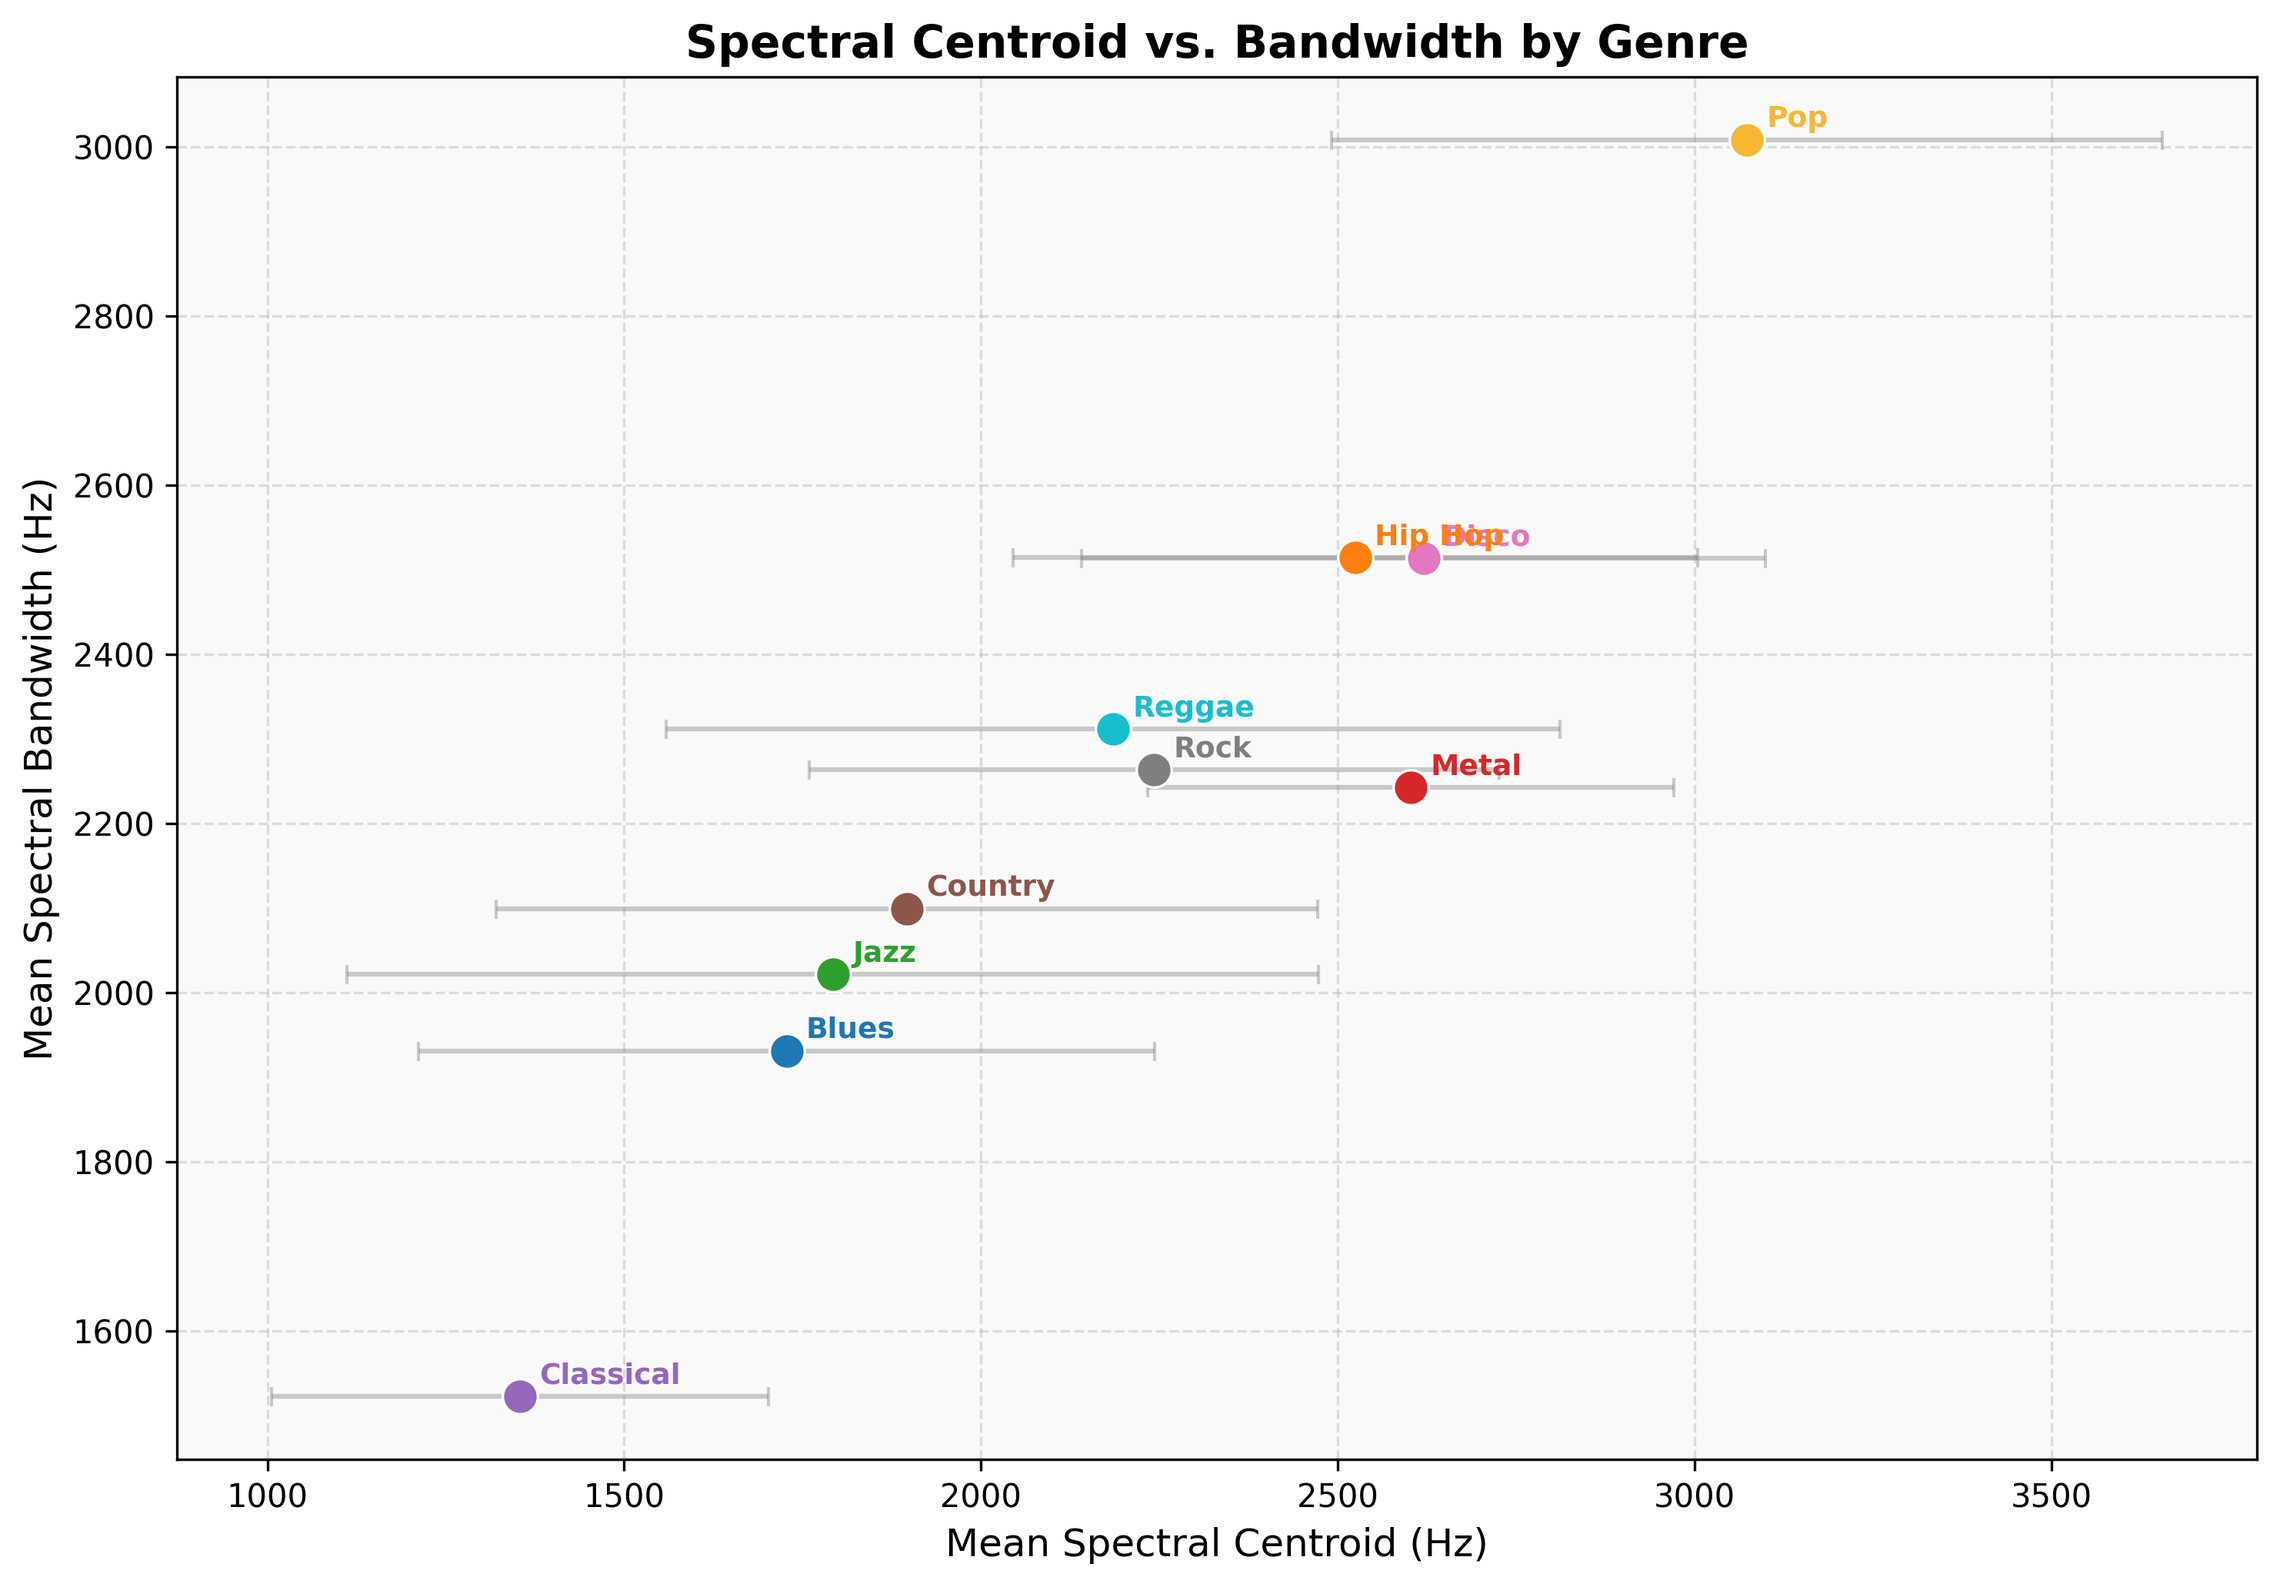
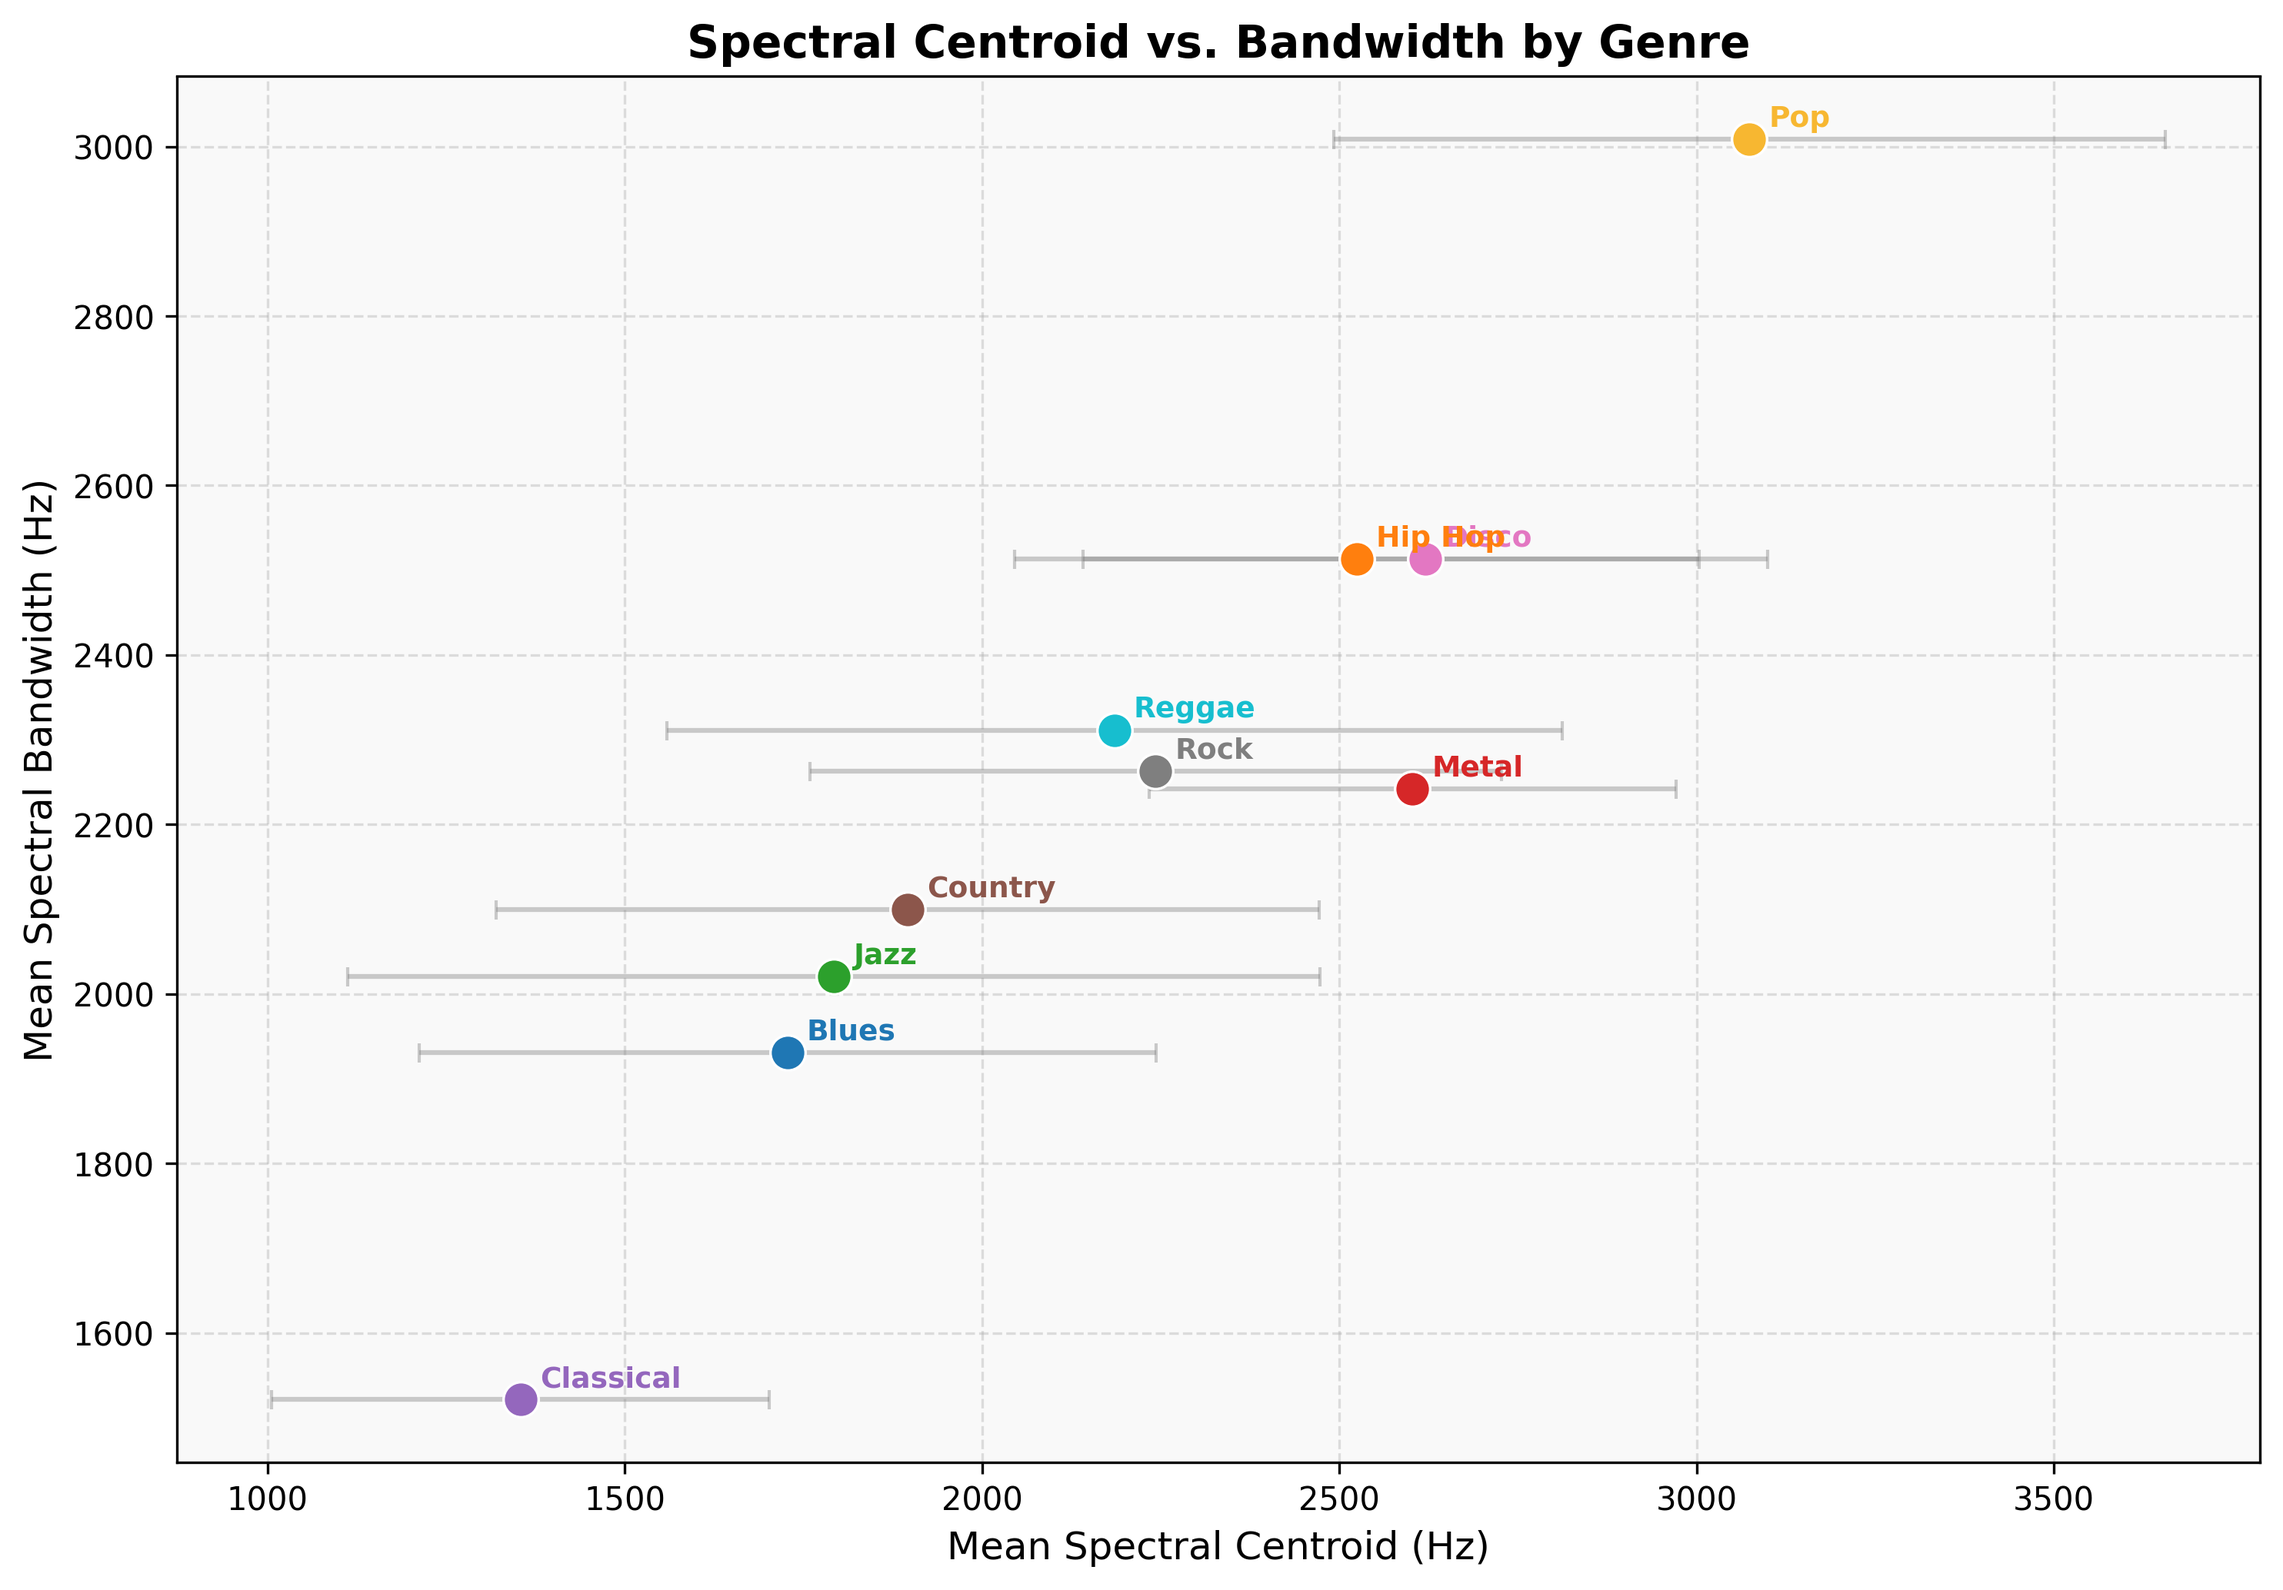
Fix save paths, replace hardcoded scatterplot data with CSV, add F1 comparison to train.py

diff --git a/src/scatterplot.py b/src/scatterplot.py
@@ -1,33 +1,21 @@
 import pandas as pd
 import matplotlib.pyplot as plt
+from pathlib import Path
 
-# This scatterplot will be used to compare genres using spectral centroid and bandwidth
-# The goal is to see whether simple spectral features separate genres in a way
-# that helps explain classification performance
+data_path = Path(__file__).resolve().parent.parent / "data" / "data.csv"
+df = pd.read_csv(data_path)
 
-# Centroid reflects perceived brightness, while bandwidth captures how broadly
-# energy is distributed across frequencies
-# Precomputed genre-level summary statistics used for a cleaner standalone plot
-data = {
-    'Genre': [
-        'Blues', 'Classical', 'Country', 'Disco', 'Hip Hop',
-        'Jazz', 'Metal', 'Pop', 'Reggae', 'Rock'
-    ],
-    'Mean_Centroid': [
-        1727.655, 1353.991, 1896.096, 2619.974, 2524.614,
-        1792.404, 2602.175, 3073.664, 2185.111, 2242.657
-    ],
-    'STDEV_Centroid': [
-        515.546, 348.305, 575.795, 478.742, 479.309,
-        680.607, 368.584, 582.062, 626.599, 483.838
-    ],
-    'Mean_Bandwidth': [
-        1931, 1522, 2099, 2513, 2514,
-        2021, 2242, 3008, 2311, 2263
-    ]
-}
+genre_stats = df.groupby("label").agg(
+    Mean_Centroid=("spectral_centroid", "mean"),
+    STDEV_Centroid=("spectral_centroid", "std"),
+    Mean_Bandwidth=("spectral_bandwidth", "mean")
+).reset_index()
 
-df = pd.DataFrame(data)
+genre_stats["label"] = genre_stats["label"].replace("hiphop", "Hip Hop")
+genre_stats["label"] = genre_stats["label"].apply(
+    lambda x: x if x == "Hip Hop" else x.capitalize()
+)
+genre_stats = genre_stats.rename(columns={"label": "Genre"})
 
 colors = {
     'Blues': '#1f77b4',
@@ -44,12 +32,9 @@ colors = {
 
 # Plot each genre in centroid-bandwidth space to assess whether genres cluster
 # into distinct regions or show substantial overlap
-# If genres fall into distinct parts of the plot, centroid and bandwidth may
-# carry useful signal for classification. Strong overlap would suggest these
-# features are informative but not sufficient on their own
 fig, ax = plt.subplots(figsize=(10, 7))
 
-for _, row in df.iterrows():
+for _, row in genre_stats.iterrows():
     genre = row['Genre']
     ax.scatter(
         row['Mean_Centroid'],
@@ -60,8 +45,6 @@ for _, row in df.iterrows():
         linewidths=0.8,
         zorder=3
     )
-
-    # Label points directly so genre positions can be compared without a legend
     ax.annotate(
         genre,
         xy=(row['Mean_Centroid'], row['Mean_Bandwidth']),
@@ -73,20 +56,16 @@ for _, row in df.iterrows():
     )
 
 # Show within-genre spread in centroid values along the x-axis
-# Larger spreads suggest a genre is less tightly clustered and may be harder to separate
 ax.errorbar(
-    df['Mean_Centroid'],
-    df['Mean_Bandwidth'],
-    xerr=df['STDEV_Centroid'],
+    genre_stats['Mean_Centroid'],
+    genre_stats['Mean_Bandwidth'],
+    xerr=genre_stats['STDEV_Centroid'],
     fmt='none',
     ecolor='gray',
     alpha=0.4,
     capsize=3,
     zorder=2
 )
-
-# Isolated points within the figure suggest stronger genre-specific structure, while
-# overlapping points suggest acoustic similarity in these two dimensions
 
 ax.set_xlabel('Mean Spectral Centroid (Hz)', fontsize=12)
 ax.set_ylabel('Mean Spectral Bandwidth (Hz)', fontsize=12)
@@ -95,5 +74,5 @@ ax.grid(True, linestyle='--', alpha=0.4)
 ax.set_facecolor('#f9f9f9')
 
 plt.tight_layout()
-plt.savefig('centroid_vs_bandwidth.png', dpi=300, bbox_inches='tight')
+plt.savefig('../figures/centroid_vs_bandwidth.png', dpi=300, bbox_inches='tight')
 plt.show()

diff --git a/src/train.py b/src/train.py
@@ -1,6 +1,7 @@
 # Central training script for the music genre classification project.
 # Runs all core models and prints a summary comparison.
 
+import pandas as pd
 from logistic_regression import run_logistic_regression
 from random_forest import run_random_forest
 from svm import run_svm
@@ -8,19 +9,16 @@ from svm import run_svm
 def main():
     print("\nStarting music genre classification workflow...\n")
 
-    # Run baseline model to establish a linear reference point
     print("=" * 60)
     print("Running Logistic Regression")
     print("=" * 60)
     lr_results = run_logistic_regression()
 
-    # Evaluate whether nonlinear ensemble methods improve performance
     print("\n" + "=" * 60)
     print("Running Random Forest")
     print("=" * 60)
     rf_results = run_random_forest()
 
-    # Evaluate kernel-based method for nonlinear decision boundaries
     print("\n" + "=" * 60)
     print("Running SVM")
     print("=" * 60)
@@ -32,6 +30,16 @@ def main():
     print(f"{lr_results['model_name']}: {lr_results['accuracy']:.4f}")
     print(f"{rf_results['model_name']}: {rf_results['accuracy']:.4f}")
     print(f"{svm_results['model_name']}: {svm_results['accuracy']:.4f}")
+
+    print("\n" + "=" * 60)
+    print("Per-Genre F1 Score Comparison")
+    print("=" * 60)
+    f1_comparison = pd.DataFrame({
+        lr_results['model_name']: lr_results['f1_scores'],
+        rf_results['model_name']: rf_results['f1_scores'],
+        svm_results['model_name']: svm_results['f1_scores'],
+    })
+    print(f1_comparison.to_string())
 
 if __name__ == "__main__":
     main()

diff --git a/src/mfcc_heatmap.py b/src/mfcc_heatmap.py
@@ -74,6 +74,6 @@ ax.tick_params(axis="x", labelsize=10, rotation=20)
 ax.tick_params(axis="y", labelsize=10, rotation=0)
 
 plt.tight_layout()
-plt.savefig("genre_heatmap.png", dpi=150, bbox_inches="tight")
+plt.savefig('../figures/genre_heatmap.png', dpi=150, bbox_inches='tight')
 plt.show()
 print("Saved: genre_heatmap.png")

diff --git a/src/heat_map.py b/src/heat_map.py
@@ -54,5 +54,5 @@ ax.grid(which='minor', color='white', linewidth=1.5)
 ax.tick_params(which='minor', bottom=False, left=False)
 
 plt.tight_layout()
-plt.savefig('mfcc_heatmap.png', dpi=300, bbox_inches='tight')
+plt.savefig('../figures/mfcc_heatmap.png', dpi=300, bbox_inches='tight')
 plt.show()
